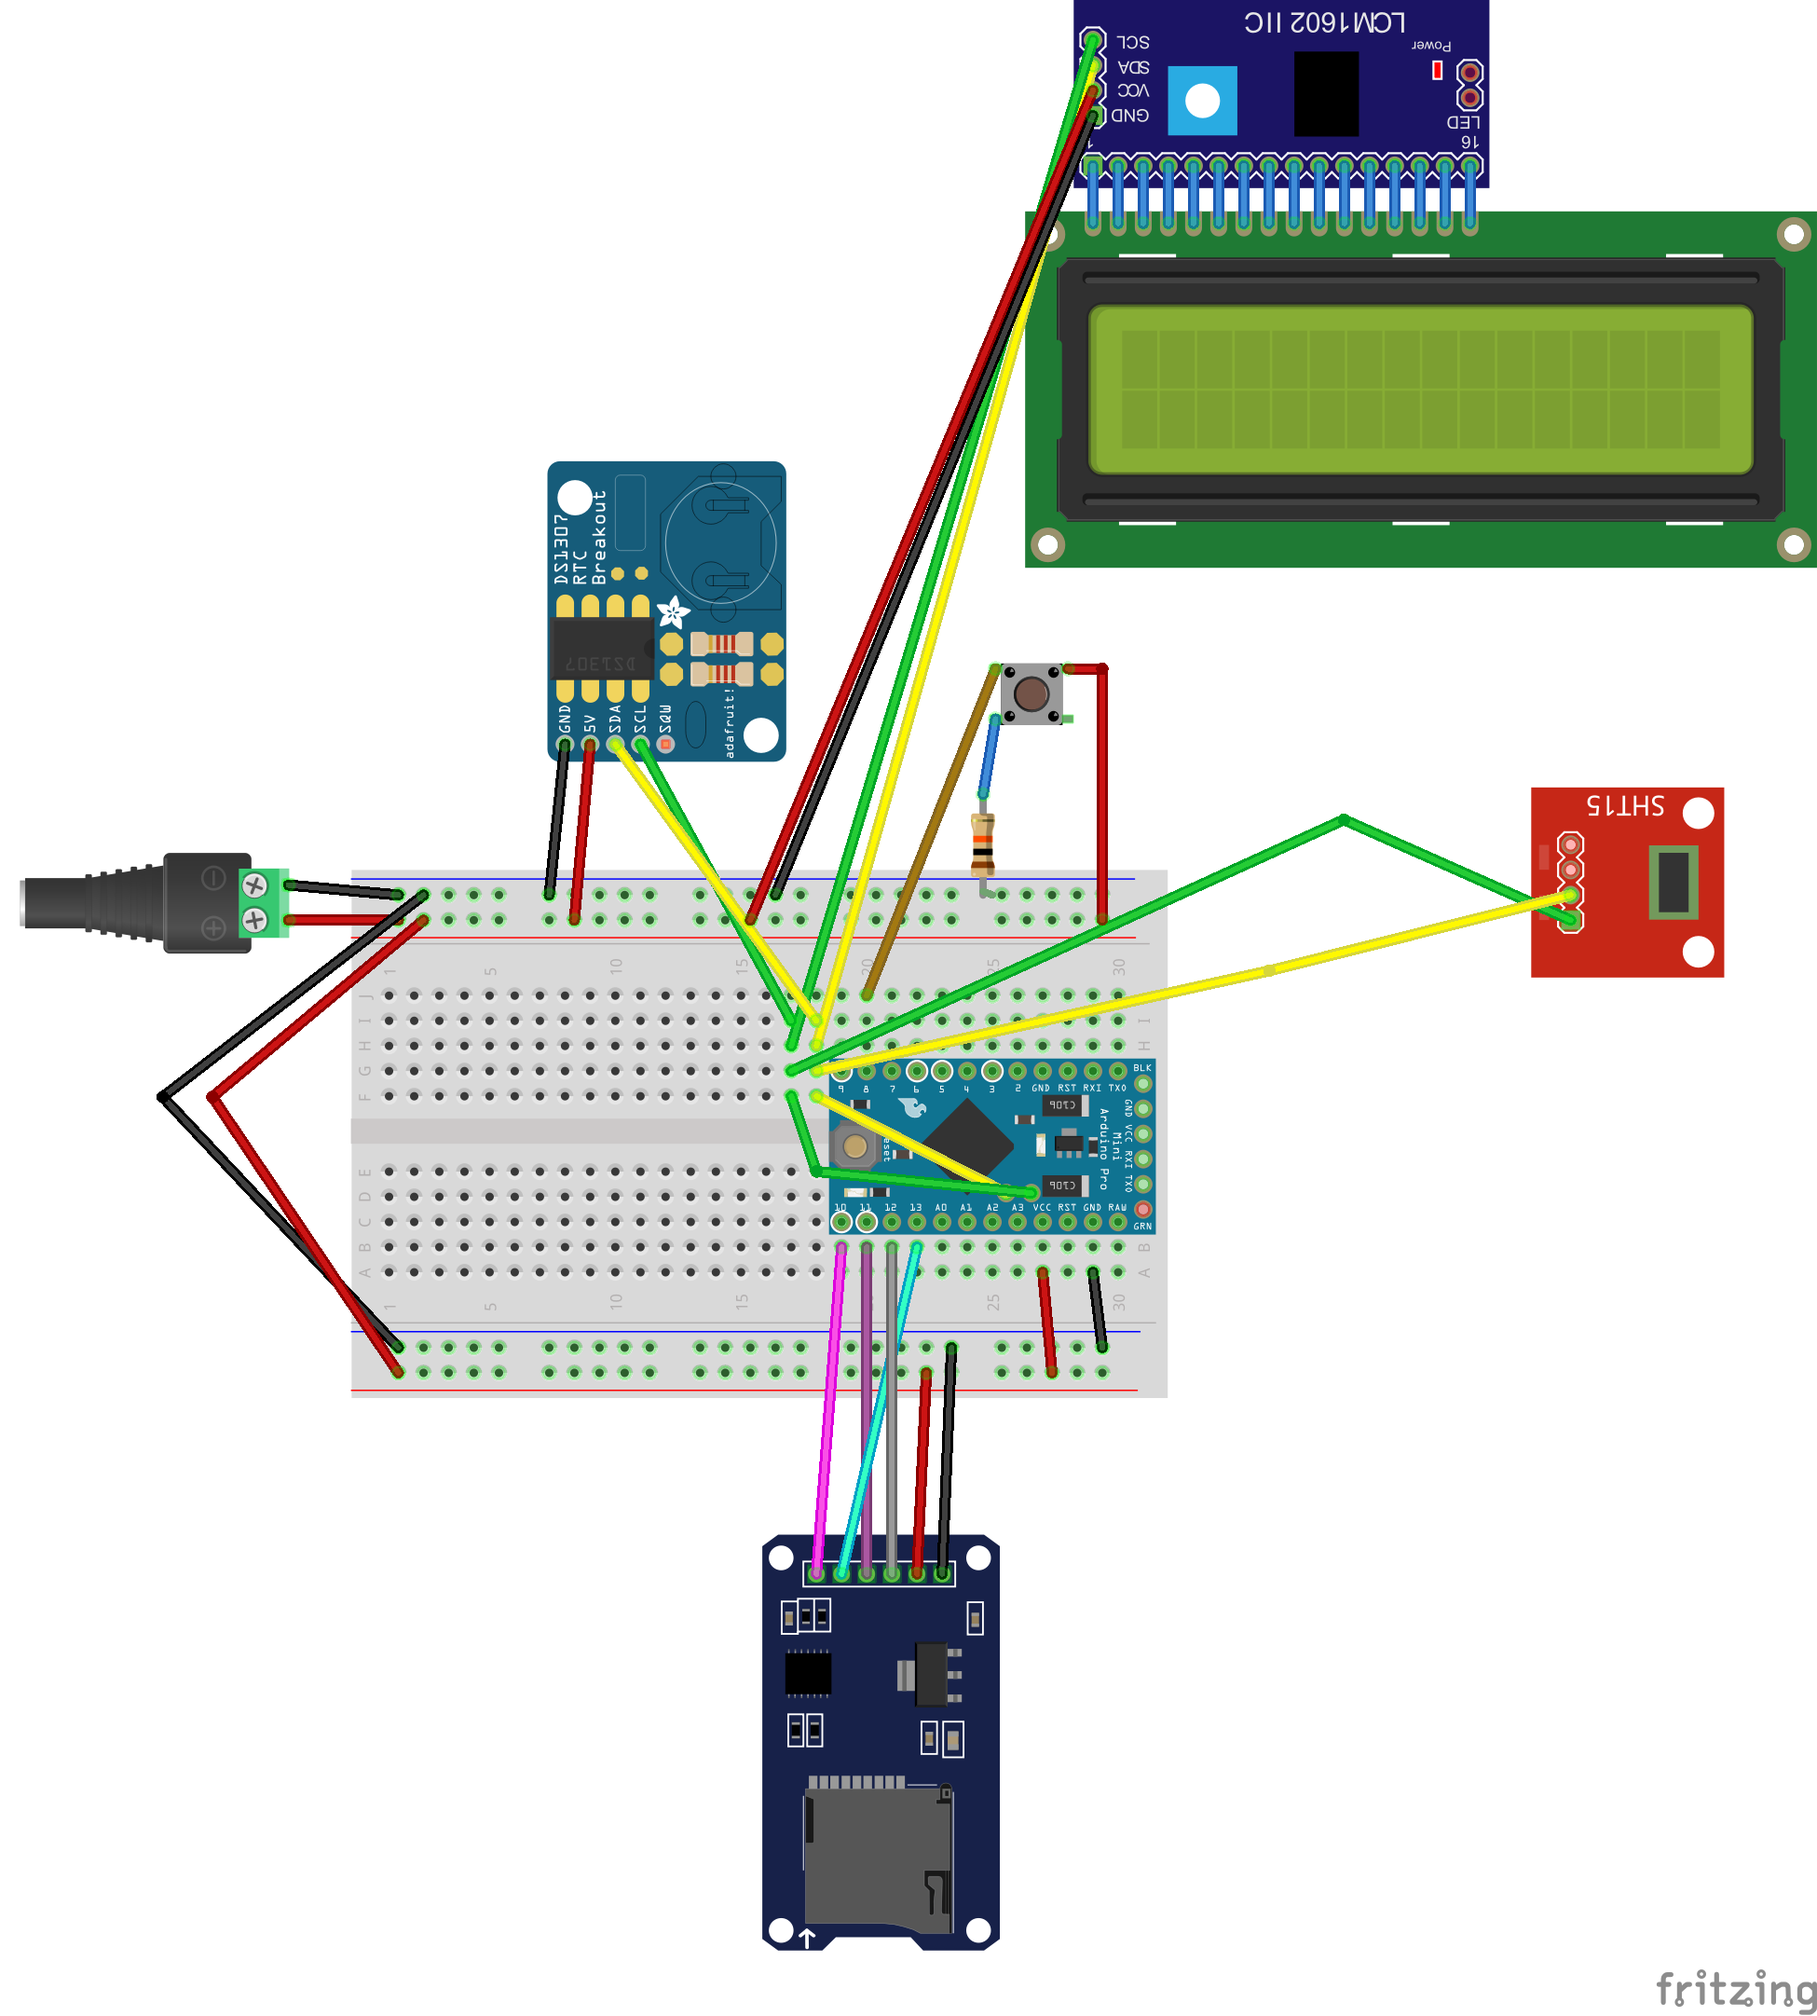
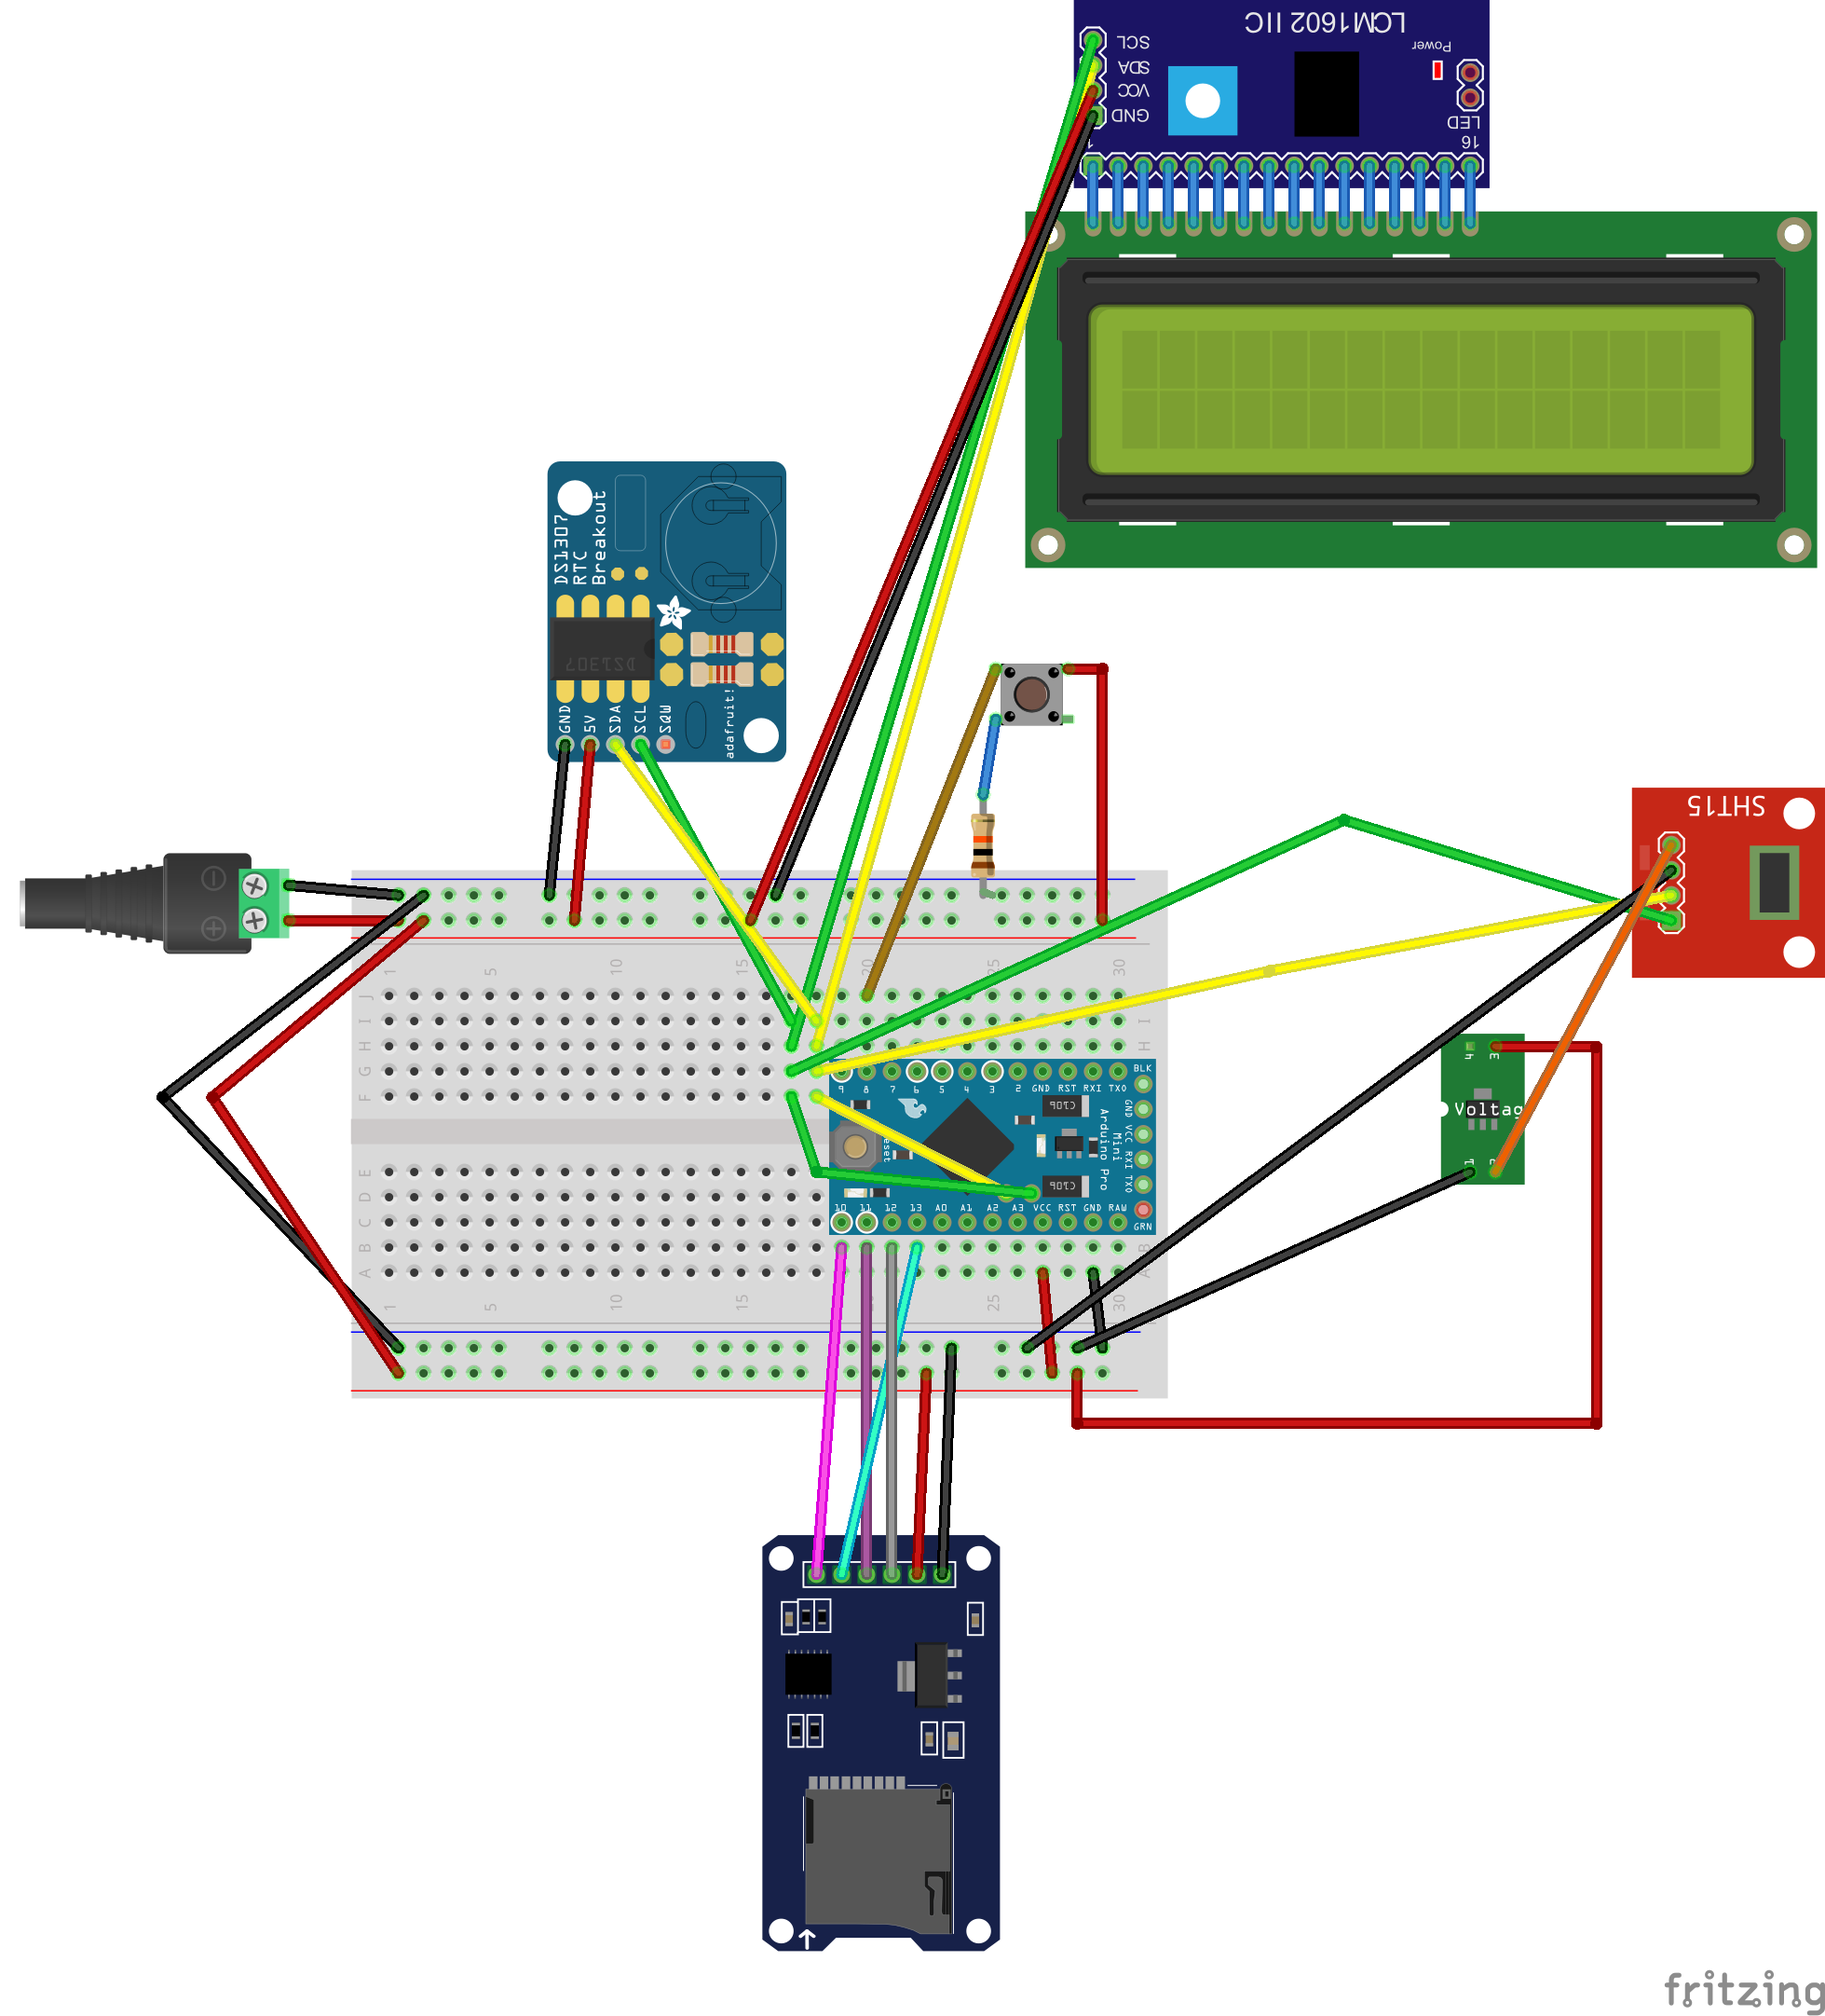
Circuit Diagram Update
Added missing voltage regulator to send 3.3V to sensor.

diff --git a/README.md b/README.md
@@ -17,7 +17,7 @@ I soldered everything on to the proto shield, but I couldn't get the system to w
 - 10k Ω resistor
 
 Removed:
-- SainSmart Arduino Uno http://smile.amazon.com/dp/B00E5WJSHK
+- SainSmart Uno http://smile.amazon.com/dp/B00E5WJSHK
 - Arrela Data Logger Shield http://smile.amazon.com/dp/B00KHYHKT8 (I see this is no longer available - http://smile.amazon.com/dp/B00M1M8N90/ is probably a comparable replacement)
 - tiny breadboard and/or protoshield with tiny breadboard http://www.ebay.com/itm/221739124245
 - DHT22 sensor https://www.sparkfun.com/products/10167
@@ -32,7 +32,7 @@ Removed:
 
 ![alt tag](https://github.com/lizcorson/rhtlogger/blob/master/sampledata/2015-12-29.PNG)
 
-## Photo
+## Photos
 
 New breadboard prototype with the Pro Mini.
 
